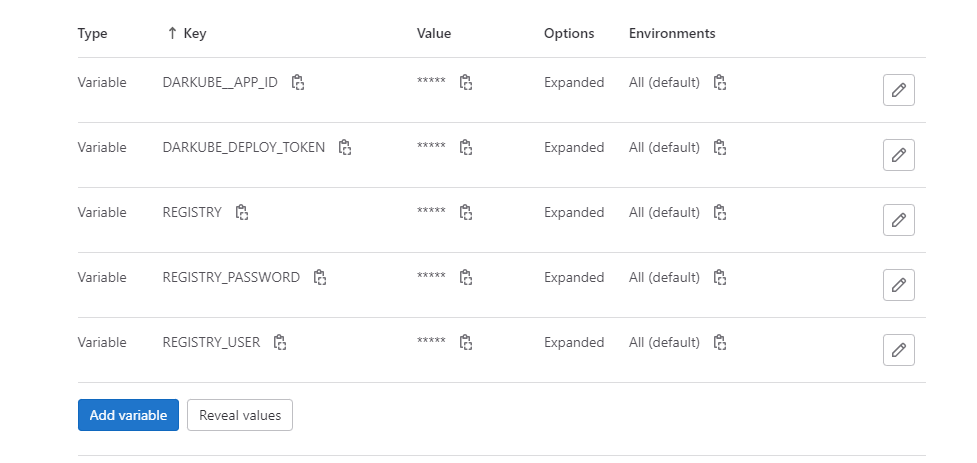
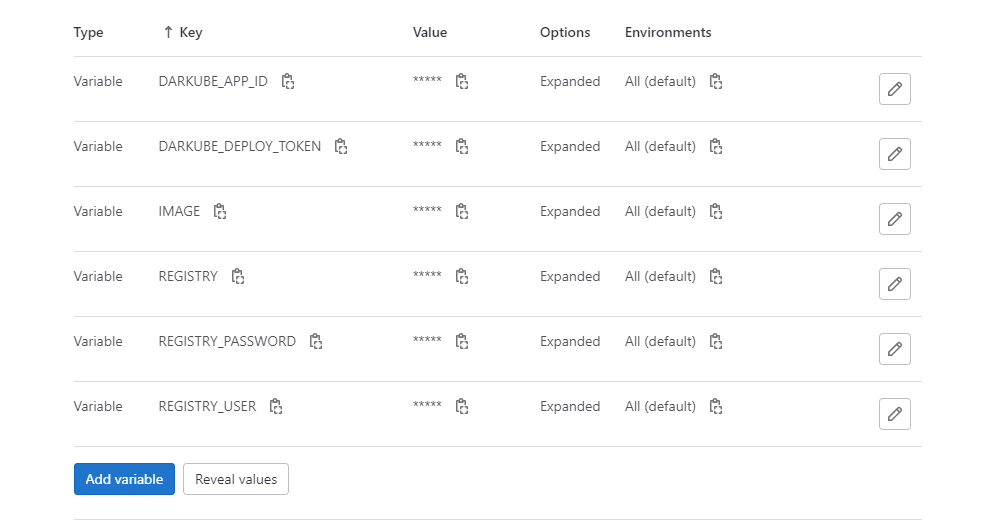
updated docs for prod mode

diff --git a/README.md b/README.md
@@ -223,9 +223,18 @@ in order to do ci/cd in the sample project for gitlab/hamgit you have to create 
 after that our pipeline will be always listening to the prod branch. if you commit in this branch it will go through the process.
 
 
-note that you have to declare 4 or more environment variables in your gitlab/hamgit project repo, which you can add it by going to ```Settings>CI/CD>Variables```, and in this section try to add all the needed variables.
+note that you have to declare 5 or more environment variables in your gitlab/hamgit project repo, which you can add it by going to ```Settings>CI/CD>Variables```, and in this section try to add all the needed variables.
 
 <div align="center" ><img style="width:700px" src="./docs/gitlab-envs.png"></div>
+
+these variables should be included:
+- DARKUBE_APP_ID - ``` which can be found in app info page ```
+- DARKUBE_DEPLOY_TOKEN - ``` which can be found in app info page ```
+- IMAGE -  ``` registry.hamdocker.ir/<USERNAME>/<APPNAME> ```
+- REGISTERY - ``` registry.hamdocker.ir/<USERNAME> ```
+- REGISTERY_PASSWORD - ``` registry password ```
+- REGISTERY_USER - ``` username like 'bigdeliali3' ```
+
 
 for having ```DARKUBE_APP_ID``` and ```DARKUB_DEPLOY_TOKEN``` head to the app page and use the following parameters in the picture.
 
